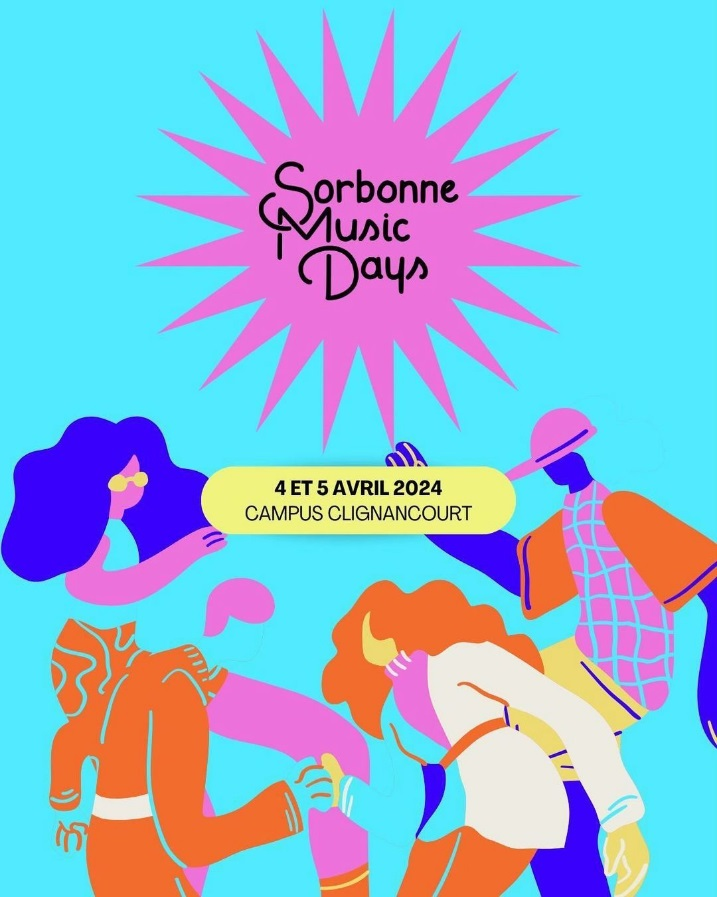
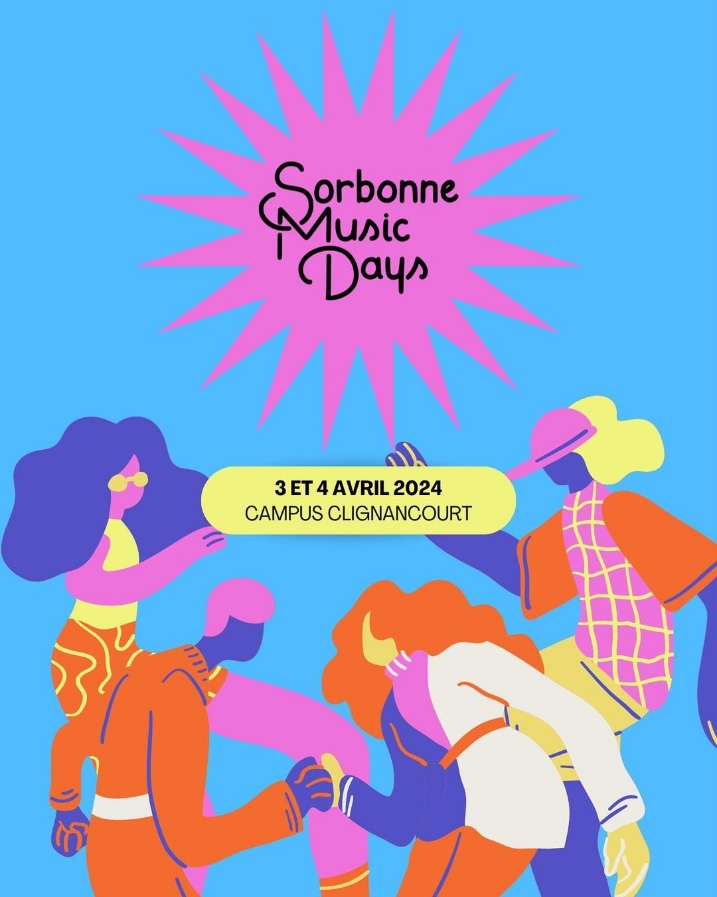
update de bz et dodo

diff --git a/src/pages/fildactus/evenements/04-05-dac.md b/src/pages/fildactus/evenements/04-05-dac.md
@@ -1,0 +1,25 @@
+---
+layout: ../../../layouts/Actu.astro
+date : "05-04-2024 23:00"
+
+title: "Festival Italissimo - Rencontre avec Giuseppe Catozzella"
+
+auteur :
+  - dac
+
+image : "/assets/fildactus/evenements/04-05-dac.jpg"
+
+source : "https://lettres.sorbonne-universite.fr/evenements/festival-italissimo-rencontre-avec-rosella-postorino"
+---
+
+Le [Festival Italissimo](https://www.italissimofestival.com/) est de retour pour une nouvelle édition ! En collaboration avec l'UFR d'études italiennes et la Direction des affaires culturelles de la Faculté des Lettres de Sorbonne Université, nous avons le plaisir d'accueillir en Sorbonne Giuseppe Catozzella le __Jeudi 4 Avril à 18h30__ et Rosella Postorino __le Vendredi 5 Avril à 18h30__ !  
+
+__Le Jeudi 4 Avril de 18h30 à 20h30__  
+Sorbonne, Salle des Actes  
+[Gratuit, sur inscription](https://www.billetweb.fr/festival-italissimo-rencontre-avec-rosella-postorino)
+
+Rosella Postorino a su conquérir le cœur des lectrices et lecteurs avec son roman La Goûteuse d’Hitler, qui a remporté neuf prix prestigieux et a été traduit dans plus de 30 langues. Son dernier roman, Et moi, je me contentais de t’aimer, ne fait pas exception. À la fois épique et intime, ce roman puise son inspiration dans les témoignages d’enfants ayant vécu l’exil. C’est une histoire d’amour et de guerre, une magnifique évocation de l’innocence et de la perte.
+
+Rencontre animée par Davide Luglio et Lucia della Fontana.
+
+Organisé dans le cadre du Festival Italissimo, en collaboration avec l’UFR d’études italiennes et la Direction des affaires culturelles de la Faculté des Lettres de Sorbonne Université.

diff --git a/src/pages/fildactus/evenements/04-04-dac.md b/src/pages/fildactus/evenements/04-04-dac.md
@@ -1,0 +1,25 @@
+---
+layout: ../../../layouts/Actu.astro
+date : "04-04-2024 23:00"
+
+title: "Festival Italissimo - Rencontre avec Giuseppe Catozzella"
+
+auteur :
+  - dac
+
+image : "/assets/fildactus/evenements/04-04-dac.jpg"
+
+source : "https://lettres.sorbonne-universite.fr/evenements/festival-italissimo-rencontre-avec-giuseppe-catozzella"
+---
+
+Le [Festival Italissimo](https://www.italissimofestival.com/) est de retour pour une nouvelle édition ! En collaboration avec l'UFR d'études italiennes et la Direction des affaires culturelles de la Faculté des Lettres de Sorbonne Université, nous avons le plaisir d'accueillir en Sorbonne Giuseppe Catozzella le __Jeudi 4 Avril à 18h30__ et Rosella Postorino __le Vendredi 5 Avril à 18h30__ !  
+
+__Le Jeudi 4 Avril de 18h30 à 20h30__  
+Sorbonne, Salle des Actes  
+[Gratuit, sur inscription](https://www.billetweb.fr/italissimo-festival-de-litteratures-et-culture-italiennes)
+
+Dans son nouveau roman Brigantessa, Giuseppe Catozzella se glisse dans la Calabre du XIXe siècle et s’inspire de la vie de Maria Oliviero, première femme condamnée à mort en Italie pour son activité de « brigante ». On suit le destin tragique de cette jeune paysanne calabraise, ses combats, ses désillusions et ses drames. Giuseppe Catozzella relate l’épopée de cette héroïne dont le combat personnel est devenu le reflet des idéaux de tout un peuple.
+
+Rencontre animée par Davide Luglio et Marguerite Bordry.
+
+Organisé dans le cadre du Festival Italissimo, en collaboration avec l’UFR d’études italiennes et la Direction des affaires culturelles de la Faculté des Lettres de Sorbonne Université.

diff --git a/src/pages/fildactus/evenements/04-04-sorbonnemusicdays.md b/src/pages/fildactus/evenements/04-04-sorbonnemusicdays.md
@@ -2,18 +2,23 @@
 layout: ../../../layouts/Actu.astro
 date : "04-04-2024 23:00"
 
-title: "Sorbonne Music Days"
+title: "Sorbonne Music Days 2024"
 
 auteur :
   - sorbonnemusicdays
 
 image : "/assets/fildactus/evenements/04-04-sorbonnemusicdays.jpg"
 
-source : "https://www.instagram.com/p/C4V-FYaLLh9/"
+source : "https://lettres.sorbonne-universite.fr/evenements/sorbonne-music-days-2024"
 ---
 
-Les Sorbonne music days reviennent sur le campus de clicli ! ❤
+__Les 3 et 4 Avril de 12h à 21h__  
+Centre universitaire Clignancourt
 
-Nouveauté cette année, nous ferons une édition __les 3 et 4 Avril__ avant de revenir pour une deuxième fin mai 🌱🌼
+Le festival Sorbonne Music Days revient et donne un coup de projecteur sur les projets musicaux des étudiantes et étudiants de Sorbonne Université. Cette nouvelle édition aura lieu les 3 et 4 avril sur le Centre universitaire Clignancourt. Venez découvrir, sur votre pause déjeuner ou après les cours, plusieurs ensembles de musique classique et des artistes pop !
 
-La programmation arrive rapidement, j’espère que vous avez aussi hâte que nous !!
+
+03/04 - Les ensembles classiques de Sorbonne Université  
+04/04 - Kanou, Cia Clément et Solest
+
+Organisé par les étudiantes et étudiants en Master Administration et Gestion de la Musique de l’UFR de musique et musicologie avec le soutien de la Direction des affaires culturelles de la Faculté des Lettres de Sorbonne Université, dans le cadre des Journées Arts et Culture dans l'enseignement supérieur.

diff --git a/src/pages/fildactus/evenements/03-29-dac.md b/src/pages/fildactus/evenements/03-29-dac.md
@@ -1,0 +1,28 @@
+---
+layout: ../../../layouts/Actu.astro
+date : "29-03-2024 23:00"
+
+title: "Filmique - Un soir, un train"
+
+auteur :
+  - dac
+
+image : "/assets/fildactus/evenements/03-29-dac.jpg"
+
+source : "https://www.instagram.com/p/C4dW4N2tBQp/"
+---
+
+Pour cette 12e saison de Filmique, Arnaud Maillet vous propose un cycle sur les images oniriques au cinéma. (Re)découvrez Un soir, un train d'André Delvaux !
+
+__Le Vendredi 29 Mars de 14h à 16h__  
+Maison de la recherche, Amphi G, Molinié (Salle D035)  
+Entrée libre, __dans la limite des places disponibles__
+
+L’image cinématographique est dès l’origine d’une nature proprement hallucinatoire (Noël Burch). À quelles conditions alors des images optiques et sonores de rêve, de délire, de souvenir sont-elles possibles à l’écran (Gilles Deleuze) ?
+
+Un soir, un train  
+Film d’André Delvaux, Belgique, 1968, 86 minutes  
+Avec Yves Montand, Anouk Aimée  
+Synopsis :  Mathias, professeur de linguistique dans l'université d'une petite ville de Flandres, entretient une liaison avec Anne. Devant dispenser un cours magistral loin de son lieu de travail, il prend un train. À sa grande surprise, Anne le rejoint dans le compartiment. Mathias s'endort. À son réveil, la jeune femme a disparu...
+
+Organisé par Arnaud Maillet, Maître de Conférences à l’UFR d’Art et d’Archéologie, en partenariat avec le Service culturel de Sorbonne Université.

diff --git a/src/pages/fildactus/evenements/04-03-dac.md b/src/pages/fildactus/evenements/04-03-dac.md
@@ -1,0 +1,22 @@
+---
+layout: ../../../layouts/Actu.astro
+date : "03-04-2024 23:00"
+
+title: "Bach to the Future !"
+
+auteur :
+  - dac
+  - laclefdeschantsensemble
+
+image : "/assets/fildactus/evenements/04-03-dac.jpg"
+
+source : "https://lettres.sorbonne-universite.fr/evenements/bach-future"
+---
+
+Un concert-rencontre avec de prestigieux voyageurs du temps, sommités artistiques et scientifiques de leurs époques : Newton, Bach, Flammarion, Marie Curie, grands témoins de l’évolution du climat versus les grandes œuvresdu répertoire musical, des œuvres classiques aux musiques actuelles.
+
+__Mercredi 3 Avril de 20h à 22h__  
+Grand Amphithéâtre de la Sorbonne  
+[Entrée payante : 5€ (étudiants), 10€ (personnel SU), 15€ (extérieurs), sur réservation](https://www.billetweb.fr/bach-to-the-future1)
+
+Ils ont accepté de venir ! Il faut bien admettre que la Sorbonne est connue depuis des siècles, et le restera sans doute encore longtemps… La Clef des Chants organise un concert rencontre avec de prestigieux voyageurs du temps, sommités artistiques et scientifiques de leurs époques : Newton, J.S. Bach, C. Flammarion et Marie Curie, seront nos grands témoins de l’évolution du climat versus les grandes oeuvres du répertoire musical à travers les siècles, jusqu’aux musiques les plus récentes…

diff --git a/src/pages/fildactus/evenements/04-03-lasorbonnesonore.md b/src/pages/fildactus/evenements/04-03-lasorbonnesonore.md
@@ -1,0 +1,22 @@
+---
+layout: ../../../layouts/Actu.astro
+date : "03-04-2024 23:00"
+
+title: "Remise des travaux d'élèves - Atelier La Sorbonne Sonore"
+
+auteur :
+  - lasorbonnesonore
+
+image : "/assets/fildactus/evenements/04-03-lasorbonnesonore.jpg"
+
+source : "https://lettres.sorbonne-universite.fr/evenements/remise-des-travaux-deleves-atelier-la-sorbonne-sonore"
+---
+
+__Le Mercredi 3 Avril de 20h à 22h__  
+Sorbonne, Amphithéâtre Guizot  
+Gratuit (pour les étudiants Sorbonne Université) [sur inscription](https://www.billetweb.fr/travaux-eleves-zola-2024)
+
+Les étudiantes et étudiants de l'atelier La Sorbonne Sonore, proposé par la Faculté des Lettres de Sorbonne Université et animé par Les Livreurs, présentent leur travail de l'année 2023-2024. Cette année, La Sorbonne Sonore prend un train d'avance, et vous lira des extraits de La Bête humaine d'Emile Zola, grand roman aux multiples facettes qui prend place entre la gare du Havre et la gare Saint-Lazare.
+
+Organisé par Les Livreurs et La Sorbonne Sonore, avec le soutien de la Direction des affaires culturelles de la Faculté des Lettres de Sorbonne Université. 
+

diff --git a/src/pages/fildactus/encemoment/04-14-sante.md b/src/pages/fildactus/encemoment/04-14-sante.md
@@ -16,7 +16,7 @@ image : "/assets/fildactus/encemoment/04-14-sante.jpg"
 source : "https://www.instagram.com/p/C4xhLw2pe30/"
 ---
 
-Les Trophées SEES récompenseront 5 associations étudiantes ayant organisés des actions entre le 11 mars et le 14 avril 2024 (compris). 500€ et un accompagnement personnalisé seront décernés à chacune des associations gagnantes.  
+Les Trophées SEES récompenseront 5 associations étudiantes ayant organisés des actions __entre le 11 Mars et le 14 Avril__ (compris). 500€ et un accompagnement personnalisé seront décernés à chacune des associations gagnantes.  
 [LIEN](https://sees.le-reses.org/)
 
 Il y a 5 thématiques :  

diff --git a/src/pages/fildactus/evenements/04-02-dac.md b/src/pages/fildactus/evenements/04-02-dac.md
@@ -9,7 +9,7 @@ auteur :
 
 image : "/assets/fildactus/evenements/04-02-dac.jpg"
 
-source : "https://www.sorbonne-universite.fr/evenements/faites-vos-jeux"
+source : "https://www.instagram.com/p/C48e6c6NN_d/"
 ---
 
 ✨ Rejoignez-nous pour la prochaine rencontre Poésie/Gallimard autour de l'œuvre poétique de Nelly Sachs, une voix majeure du XXe siècle qui a su transcender les tragédies de l'Histoire pour nous offrir un message d'espoir.

diff --git a/src/pages/fildactus/evenements/04-02-bicursiosite.md b/src/pages/fildactus/evenements/04-02-bicursiosite.md
@@ -2,7 +2,7 @@
 layout: ../../../layouts/Actu.astro
 date : "02-04-2024 23:00"
 
-title: "Conférence : Ecrire et Diffuser les savoirs Mathématiques dans les périodes Scientifiques (1663-1767)"
+title: "Conférence : Écrire et Diffuser les savoirs Mathématiques dans les périodiques Scientifiques (1663-1767)"
 
 auteur :
   - bicursiosite

diff --git a/src/pages/fildactus/evenements/03-29-lupa2.md b/src/pages/fildactus/evenements/03-29-lupa2.md
@@ -7,7 +7,7 @@ title: "Projection : La Rivière"
 auteur :
   - lupa
 
-image : "/assets/fildactus/evenements/03-29-lupa.jpg"
+image : "/assets/fildactus/evenements/03-29-lupa2.jpg"
 
 source : "https://www.instagram.com/p/C484lQYtLLq/"
 ---
